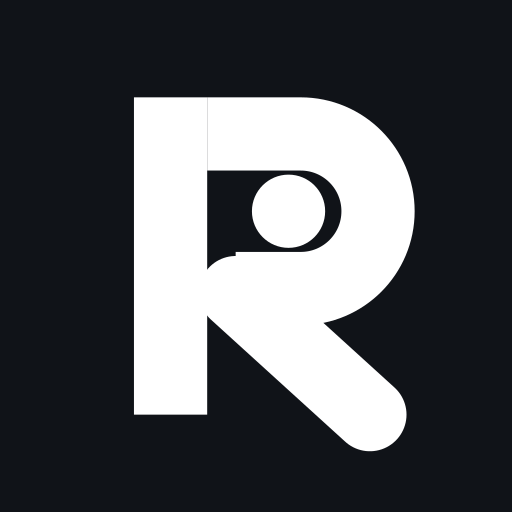
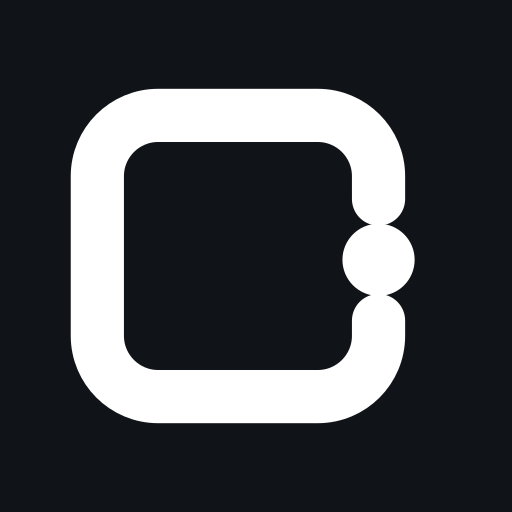
docs+brand: new mark (transit gate), README reworked to project style
- Replaced R-monogram logo with open-frame + transit-dot mark
- Regenerated variants, favicon, web icons, app icon, lockup
- README restructured: badges, ecosystem, MCP, architecture sections

Authored By: TDvorak <info@tdvorak.dev>

Generated with [Devin](https://devin.ai)

Changed region(s): [[0.125, 0.1562, 0.8125, 0.9062]]

diff --git a/README.md b/README.md
@@ -1,184 +1,138 @@
 <p align="center">
-  <img src="assets/brand/relay-mark-accent.svg" width="72" alt="Relay logo">
+  <img src="assets/brand/relay-icon.svg" alt="Relay" width="120">
 </p>
 
 <h1 align="center">Relay</h1>
 
 <p align="center">
-  <strong>Your projects. Your agents. One place.</strong><br>
-  Open-source, self-hosted workspace for projects, GitHub issues,
-  conversations, screenshots, and external AI agents.
+  Open-source agent communication & project hub.<br>
+  Your projects. Your agents. One place.
 </p>
 
 <p align="center">
-  <a href="LICENSE"><img alt="License: Apache-2.0" src="https://img.shields.io/badge/license-Apache--2.0-blue"></a>
+  <a href="#quick-start">Quick Start</a> ·
+  <a href="ARCHITECTURE.md">Documentation</a> ·
+  <a href="https://github.com/Dvorinka/relay/releases">Releases</a> ·
+  <a href="CONTRIBUTING.md">Contributing</a>
 </p>
 
----
+<p align="center">
+  <a href="https://github.com/Dvorinka/relay/actions/workflows/ci.yml"><img src="https://github.com/Dvorinka/relay/actions/workflows/ci.yml/badge.svg" alt="CI"></a>
+  <a href="https://github.com/Dvorinka/relay/releases"><img src="https://img.shields.io/github/v/release/Dvorinka/relay" alt="Release"></a>
+  <a href="LICENSE"><img src="https://img.shields.io/github/license/Dvorinka/relay" alt="License"></a>
+</p>
 
-## Why Relay exists
+## What is Relay?
 
-Talking to coding agents today looks like this:
+Relay is a self-hosted workspace where humans and external AI agents share
+project context: conversations, issues, screenshots, and GitHub activity in
+one persistent place. Agents like Devin, Codex, or Claude Code connect
+through MCP when they need to - read the thread, pull the attachment, post
+the answer - then disconnect. No agent runtime, no hosted tier, no lock-in.
 
-```text
-Screenshot → Discord → find the message → copy/paste to the agent →
-explain the context → agent works → response lands somewhere else
-```
+The workflow it replaces - screenshot into Discord, copy-paste context into
+an agent, answer lost in another channel - collapses into one loop:
+paste into a project, agent reads it through MCP, agent replies in the same
+thread, thread becomes an issue, issue tracks GitHub state.
 
-With Relay:
+> Agents don't live in Relay. They communicate through it.
 
-```text
-Screenshot → paste into Relay → project/issue → agent reads it through
-MCP → agent works externally → agent replies in the same thread
-```
+## Features
 
-Everything stays in one persistent project context. GitHub remains the
-source of truth for code. Relay is the communication and coordination layer
-on top of it.
-
-> **Agents don't live in Relay. They communicate through it.**
-
-Relay is not an AI IDE and not an agent runtime. External agents (Devin,
-Codex, Claude Code, OpenCode, your own) connect through MCP whenever they
-want. You can leave a message or a screenshot today; an agent can pick it up
-tomorrow.
-
-## What it does
-
-- **Projects** - Linear-style project organization with overview, issues, conversations, and activity
-- **Conversations** - persistent per-project threads with Markdown, code, files, and paste-a-screenshot image support
-- **Issues** - fast issue tracker (`MYB-142` style keys, statuses, priorities, labels) with a conversation-to-issue loop
-- **GitHub** - link repositories via a GitHub App; issues, PRs, and activity mirror into Relay
-- **Agents** - first-class agent identities with scoped, revocable MCP tokens and per-project permissions
-- **MCP server** - agents list projects, read conversations and attachments, send replies, manage issues
-- **Search** - `Ctrl/Cmd+K` across projects, issues, messages, and GitHub items
-- **Notifications** - unread state, mentions, assignments, agent replies
-- **Web first** - desktop (Wails) and Android (Expo) clients consume the same API
+- **Projects** - Linear-style project organization: overview, issues, conversations, activity, members, settings.
+- **Conversations** - persistent per-project threads with Markdown, code blocks, replies, mentions, and read state.
+- **Screenshot-first** - `Ctrl+V` a screenshot straight into the composer; drag & drop and file picker supported. Attachments stay attached to their message.
+- **Issues** - fast issue tracker with `MYB-142` keys, statuses, priorities, labels, assignees, comments, and an activity timeline.
+- **Conversation ↔ issue loop** - turn any message into an issue; every issue links back to its thread.
+- **GitHub** - connect repositories through a GitHub App; issues, PRs, and commits mirror into the project with signature-verified webhooks.
+- **Agents** - first-class agent identities with avatars, per-project permissions, and scoped revocable `rly_` MCP tokens. "Last seen" is real MCP activity - never fabricated presence.
+- **MCP server** - streamable-HTTP endpoint exposing projects, conversations, messages, attachments, and issues as tools for external agents.
+- **Realtime** - SSE event stream for live messages, issue changes, and notifications.
+- **Search** - `Ctrl/Cmd+K` across projects, issues, messages, and GitHub items, backed by Postgres FTS.
+- **Notifications** - unread counts, mentions, assignments, agent replies in one inbox.
+- **Web first** - dark and light mode, keyboard-first, accessible. Desktop (Wails: Linux/macOS/Windows) and Android (Expo) clients consume the same API - see the [roadmap](ROADMAP.md).
 
 ## Architecture
 
-```text
-┌──────────────────────────────┐
-│            relay             │  single Go binary (Gin)
-│                              │
-│   REST API    SSE     MCP    │  /api/*   /api/events   /mcp
-│        \       |       /     │
-│     internal/{domains}       │  modular monolith
-│              |               │
-│      PostgreSQL (sqlc)       │  goose migrations
-│      S3-compatible storage   │  attachments (MinIO/S3/R2)
-└──────────────────────────────┘
-        ▲            ▲
-   web (SolidJS)   external agents (MCP)
-   desktop (Wails) mobile (Expo)
+```
+Browser ──▶ relay (Go + Gin) ──▶ PostgreSQL (sqlc + goose)
+   web           │             ──▶ S3-compatible object storage (MinIO/S3/R2)
+   desktop       ├── SSE /api/events
+   mobile        └── MCP /mcp ◀── external AI agents (Devin, Codex, ...)
 ```
 
-- **Backend**: Go + Gin, modular monolith in `internal/`, `zap` logging
-- **Frontend**: SolidJS + Vite + TypeScript strict + Tailwind + Ark UI
-- **API contract**: `api/openapi.yaml` is the source of truth; the TypeScript client is generated, never handwritten
-- **Database**: PostgreSQL, `sqlc` for typed queries, `goose` for versioned migrations
-- **Storage**: any S3-compatible backend (MinIO for self-hosting)
-- **Auth**: email + password, argon2id, opaque session cookies, rate limiting
-- **Desktop** (later): Wails v3 shell on the same web build - tray, global screenshot shortcut, deep links
-- **Mobile** (later): React Native + Expo, Android
+One binary serves REST, SSE, and MCP. Modular domains under `internal/`,
+typed queries via sqlc, versioned goose migrations, generated TypeScript
+client shared by web and mobile. Details in [ARCHITECTURE.md](ARCHITECTURE.md).
 
-Full details: [ARCHITECTURE.md](ARCHITECTURE.md).
+## Quick Start
 
-## Quick start (self-hosted)
+Prerequisites: Docker with the Compose plugin.
 
 ```bash
-cp .env.example .env        # fill in secrets
+git clone https://github.com/Dvorinka/relay.git && cd relay
+cp .env.example .env        # set AUTH_SECRET, storage keys
 docker compose up -d        # relay + postgres + minio
 ```
 
-Open `http://localhost:8080`. The first registered user becomes the
-workspace owner.
+Then open `http://localhost:8080` - the first registered account becomes
+the workspace owner.
 
-## Local development
-
-Prerequisites: Go 1.24+, Node 20+, Docker (for Postgres + MinIO), `just`.
+For local development (Go 1.24+, Node 20+, `just`):
 
 ```bash
-just dev           # start deps + backend + frontend with hot reload
-just migrate       # run goose migrations
-just sqlc          # regenerate sqlc code after editing db/queries
-just api           # regenerate the TS client after editing api/openapi.yaml
-just test          # all tests
+just dev       # deps + backend + SolidJS frontend with hot reload
+just check     # vet + golangci-lint + tsc
+just test      # all tests
 ```
-
-Repository layout:
-
-```text
-apps/web/          SolidJS frontend
-apps/desktop/      Wails shell (phase 10)
-apps/mobile/       Expo app, Android (phase 11)
-cmd/relay/         Go entrypoint
-internal/          backend domains (auth, projects, issues, mcp, ...)
-packages/api-client/  generated OpenAPI client, shared by web + mobile
-api/openapi.yaml   API contract
-db/                migrations + sqlc queries
-deploy/            Dockerfile, compose, examples
-assets/brand/      logo kit and brand guide
-docs/              specs, plans, guides
-```
-
-## GitHub integration
-
-Relay connects through a **GitHub App** (manifest flow):
-
-1. Project settings → GitHub → *Create GitHub App* (manifest pre-fills permissions)
-2. Install the app on your repositories
-3. Issues, PRs, and activity mirror into the linked project; webhooks keep state fresh
-
-MVP syncs GitHub → Relay. Relay → GitHub write-back is on the
-[roadmap](ROADMAP.md).
-
-## MCP integration
-
-Create an agent in workspace settings, grant it projects, and copy its MCP
-token. Point your agent at:
-
-```text
-POST {RELAY_PUBLIC_URL}/mcp     (streamable HTTP transport)
-Authorization: Bearer rly_...
-```
-
-Tools: `list_projects`, `get_project`, `list_conversations`,
-`get_messages`, `get_message`, `get_attachment`, `search_messages`,
-`list_issues`, `get_issue`, `send_message`, `create_issue`,
-`update_issue`, `mark_message_read`.
-
-Tokens are scoped per project and per permission, and revocable. Relay only
-ever shows real agent metadata (last MCP activity, last read) - never
-fabricated presence.
 
 ## Configuration
 
-All configuration is environment variables - see [.env.example](.env.example)
-for the complete list with comments. Minimum set:
+All configuration lives in `.env` - see [.env.example](.env.example) for the
+annotated list: `DATABASE_URL`, `AUTH_SECRET`, `STORAGE_*` (MinIO, S3, R2),
+`GITHUB_APP_*`, and `RELAY_PUBLIC_URL`.
+
+## MCP integration
+
+Create an agent in workspace settings, grant it projects, mint a token, and
+point your agent at your deployment:
 
 ```text
-DATABASE_URL          postgres://relay:...@postgres:5432/relay
-RELAY_PUBLIC_URL      https://relay.example.com
-AUTH_SECRET           openssl rand -hex 32
-STORAGE_*             S3-compatible endpoint, keys, bucket
-GITHUB_APP_*          app credentials (phase 7)
+POST {RELAY_PUBLIC_URL}/mcp        # streamable HTTP transport
+Authorization: Bearer rly_...
 ```
 
-## Security
+Tools: `list_projects`, `get_project`, `list_conversations`, `get_messages`,
+`get_message`, `get_attachment`, `search_messages`, `list_issues`,
+`get_issue`, `send_message`, `create_issue`, `update_issue`,
+`mark_message_read`.
 
-Report vulnerabilities privately - see [SECURITY.md](SECURITY.md).
-Highlights: argon2id password hashing, scoped + revocable MCP tokens,
-per-project authorization checks, webhook signature verification, upload
-MIME/size validation, rate-limited auth endpoints, no secrets in logs.
+## Ecosystem
+
+- **[apps/web](apps/web)** - SolidJS + Vite + Tailwind + Ark UI frontend.
+- **[packages/api-client](packages/api-client)** - OpenAPI-generated TS client shared by all clients.
+- **[apps/desktop](apps/desktop)** - Wails shell for Linux/macOS/Windows: tray, global screenshot shortcut, deep links (phase 9).
+- **[apps/mobile](apps/mobile)** - React Native + Expo for Android: conversations, issues, push, deep links (phase 10).
+- **MCP server** - built into the `relay` binary at `/mcp`.
+
+## Documentation
+
+- [ARCHITECTURE.md](ARCHITECTURE.md) - system design, data model, decisions
+- [ROADMAP.md](ROADMAP.md) - phases from foundation to v1.0
+- [docs/superpowers/specs/](docs/superpowers/specs/) - full design spec
+- [api/openapi.yaml](api/openapi.yaml) - API contract (source of truth)
+- [assets/brand/](assets/brand/) - logo kit and brand guide
 
 ## Contributing
 
-Relay is community-driven - see [CONTRIBUTING.md](CONTRIBUTING.md) and the
-[roadmap](ROADMAP.md). Good first contributions are tagged
-`good first issue` once the repository is public.
+See [CONTRIBUTING.md](CONTRIBUTING.md) for the development workflow. Relay
+is community-driven - self-hosting stays a first-class use case.
+
+## Security
+
+See [SECURITY.md](SECURITY.md) for reporting vulnerabilities and the
+self-hosting hardening checklist.
 
 ## License
 
-[Apache License 2.0](LICENSE). Self-hosting is a first-class use case and
-always will be.
+[Apache-2.0](LICENSE)

diff --git a/assets/brand/README.md b/assets/brand/README.md
@@ -2,19 +2,19 @@
 
 ## Mark
 
-The Relay mark is a geometric **R** whose counter holds a single dot - the
-message inside the hub. One idea: Relay is where messages between humans and
-agents live.
+The Relay mark is a rounded, open frame with a single dot passing through
+the gap - a message mid-transit through the hub. One idea: Relay is the
+place things pass between humans and agents.
 
 | File | Use |
 |---|---|
 | `relay-mark.svg` | Master mark, ink on light |
-| `relay-mark-accent.svg` | Primary brand mark - ink R, signal-orange dot |
+| `relay-mark-accent.svg` | Primary brand mark - ink frame, signal-orange dot |
 | `relay-mark-small.svg` | Small-size cut (favicon, 16-24 px). Thicker strokes, larger dot |
 | `relay-icon.svg` | App icon - mark on ink tile |
 | `relay-lockup.svg` | Horizontal lockup (mark + wordmark). Working file contains live text; convert to Inter 600 outlines before print |
 | `kit/` | Exported variants: black, white, mono, square, favicon.ico, web icons, maskable, site.webmanifest |
-| `concept-*.svg` | Rejected directions (B: routed-node R, C: transfer bars), kept for history |
+| `concept-*.svg` | Rejected directions, kept for history. a/b/c: R monograms and transfer bars (round 1). d/e/f: gate, flag, hop (round 2 - d shipped) |
 | `renders/` | Raster previews used during review |
 
 ## Colour
@@ -22,21 +22,23 @@ agents live.
 | Token | Hex | Use |
 |---|---|---|
 | Relay Ink | `#101318` | Primary mark, dark surfaces, text |
-| Signal Orange | `#F2541B` | Accent only - the dot, active states, links |
+| Signal Orange | `#F2541B` | Accent only - the transit dot, active states, links |
 | Paper | `#FAFAF8` | Light surfaces |
 
-One colour rule: the mark works in one colour. Orange is reserved for the dot
-and for small accent moments, never as a fill for the letterform at large size.
+One colour rule: the mark works in one colour. Orange is reserved for the
+transit dot and for small accent moments.
 
 ## Rules
 
 - Minimum symbol size: 16 px (use `relay-mark-small.svg` below 24 px).
-- Clear space: half the stroke width of the mark on all sides.
+- Clear space: half the frame's stroke width on all sides.
 - Dark backgrounds: use the white variant or the app icon tile.
 - Do not rotate, outline, add gradients, or recolour outside this palette.
-- The dot must survive at every size. If it does not, use the small-size cut.
+- The transit dot and the frame gap must survive at every size - the gap
+  is the mark's identity. If they merge, use the small-size cut.
 
 ## Typography
 
-Inter (600 for the wordmark, 400/500 for UI). The lockup working file uses live
-text - before using it in print or signage, convert the wordmark to outlines.
+Inter (600 for the wordmark, 400/500 for UI). The lockup working file uses
+live text - before using it in print or signage, convert the wordmark to
+outlines.
